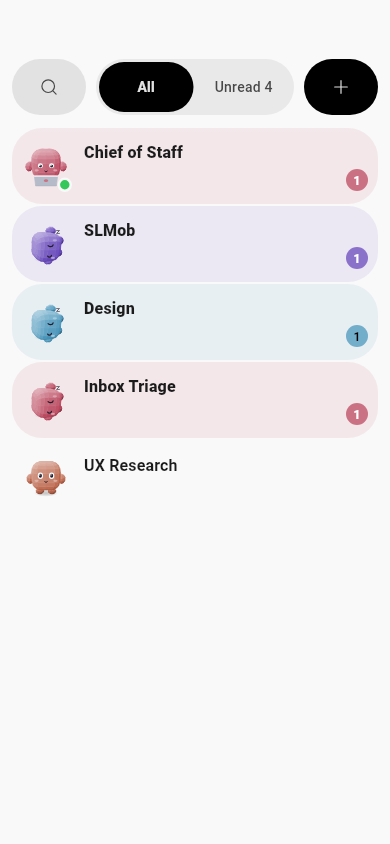
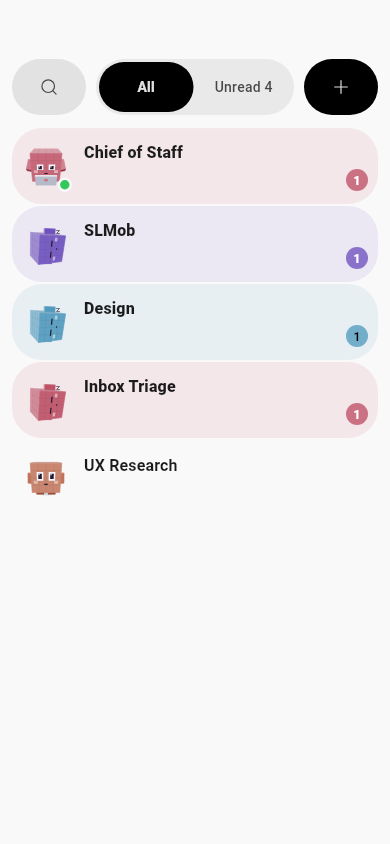
CHAT-84: square figure is the default again; Round is picked per agent
The owner keeps both figures. Every agent shows the square cube unless
its profile says round: the agent's profile page (right pane) has a new
row "Avatar: Square | Round", stored per agent like the agent colour
(AgentProfile.round, saved as 'round': true; old profiles stay square).
Reset to default also goes back to square. The avatar picks its painter
per agent and re-renders its cached image when the choice changes.

tool/agent_avatar_shot.dart sets two agents to round, so the headless
check shows both figures. Home-list preview goldens rendered again.

Changed region(s): [[0.0615, 0.2464, 0.1846, 0.5853], [0.0615, 0.154, 0.1846, 0.2156]]

diff --git a/lib/pages/agent_profile_edit_page.dart b/lib/pages/agent_profile_edit_page.dart
@@ -86,6 +86,10 @@ class _AgentProfileEditPageState extends State<AgentProfileEditPage> {
   /// The colour picked in this session; null means "keep what is stored".
   int? _color;
   AgentAvatarShape? _shape;
+
+  /// The avatar figure picked in this session (true round, false square);
+  /// null means "keep what is stored".
+  bool? _round;
   bool _clearColor = false;
   bool _busy = false;
 
@@ -170,6 +174,7 @@ class _AgentProfileEditPageState extends State<AgentProfileEditPage> {
       colorValue: _color,
       clearColor: _clearColor,
       shape: _shape,
+      round: _round,
     );
     if (!mounted) return;
     setState(() => _busy = false);
@@ -249,6 +254,8 @@ class _AgentProfileEditPageState extends State<AgentProfileEditPage> {
                         store: _store,
                         overrideColor: shownColor,
                         shape: _shape ?? _store.profileOf(agent.id).shape,
+                        round:
+                            _round ?? _store.profileOf(agent.id).round ?? false,
                       ),
                       const SizedBox(height: 14),
                       Row(
@@ -294,6 +301,40 @@ class _AgentProfileEditPageState extends State<AgentProfileEditPage> {
                       ),
                     ),
                     ExpressiveCard(
+                      key: const ValueKey('avatar_figure'),
+                      padding: const EdgeInsets.all(14),
+                      child: Row(
+                        children: <Widget>[
+                          Expanded(
+                            child: Text(
+                              'Avatar',
+                              style: Theme.of(context).textTheme.titleSmall,
+                            ),
+                          ),
+                          SegmentedButton<bool>(
+                            showSelectedIcon: false,
+                            segments: const <ButtonSegment<bool>>[
+                              ButtonSegment<bool>(
+                                value: false,
+                                label: Text('Square'),
+                              ),
+                              ButtonSegment<bool>(
+                                value: true,
+                                label: Text('Round'),
+                              ),
+                            ],
+                            selected: <bool>{
+                              _round ??
+                                  _store.profileOf(agent.id).round ??
+                                  false,
+                            },
+                            onSelectionChanged: (Set<bool> v) =>
+                                setState(() => _round = v.first),
+                          ),
+                        ],
+                      ),
+                    ),
+                    ExpressiveCard(
                       padding: const EdgeInsets.all(14),
                       child: _ShapeRow(
                         agentId: agent.id,
@@ -314,6 +355,7 @@ class _AgentProfileEditPageState extends State<AgentProfileEditPage> {
                         _color = null;
                         _clearColor = true;
                         _shape = AgentAvatarShape.expressive;
+                        _round = false;
                       }),
                     ),
                   ],
@@ -337,7 +379,7 @@ class _AgentProfileEditPageState extends State<AgentProfileEditPage> {
                 const SizedBox(height: 16),
                 const ExpressiveInfoCard(
                   text:
-                      'Picture, shape, colour, role and brief are kept on '
+                      'Picture, figure, colour, role and brief are kept on '
                       'this device. The relay carries names only.',
                 ),
               ],
@@ -356,12 +398,14 @@ class _FacePreview extends StatelessWidget {
     required this.store,
     required this.overrideColor,
     required this.shape,
+    required this.round,
   });
 
   final AgentsAgent agent;
   final AgentProfileStore store;
   final int? overrideColor;
   final AgentAvatarShape? shape;
+  final bool round;
 
   @override
   Widget build(BuildContext context) {
@@ -378,6 +422,7 @@ class _FacePreview extends StatelessWidget {
               colorValue: overrideColor,
               clearColor: overrideColor == null,
               shape: shape,
+              round: round,
             ),
       ),
     );

diff --git a/lib/ui/agent_avatar/agent_avatar.dart b/lib/ui/agent_avatar/agent_avatar.dart
@@ -43,8 +43,9 @@ import 'package:chuk_chat/utils/io_helper.dart' show Platform;
 export 'package:chuk_chat/ui/agent_avatar/avatar_rig.dart'
     show AgentAvatarState;
 
-/// The figure painter: the round figure ("D1 rund"). The square cube
-/// ([paintCubeAvatar]) is the other style; swap it here.
+/// A figure painter: the square cube ([paintCubeAvatar], the default) or
+/// the round figure ([paintRoundAvatar]), picked per agent in its profile
+/// ([AgentProfile.round]).
 typedef AgentAvatarPainter = void Function(
   Canvas canvas,
   double size,
@@ -53,7 +54,8 @@ typedef AgentAvatarPainter = void Function(
   bool dark,
 });
 
-const AgentAvatarPainter kAgentAvatarPainter = paintRoundAvatar;
+AgentAvatarPainter agentAvatarPainterFor({required bool round}) =>
+    round ? paintRoundAvatar : paintCubeAvatar;
 
 /// No activity for this long and the avatar sleeps.
 const Duration kAgentSleepAfter = Duration(hours: 6);
@@ -517,6 +519,7 @@ class _AgentAvatarState extends State<AgentAvatar>
               painter: _AvatarPainter(
                 frame: _frame,
                 accent: accent,
+                round: profile.round ?? false,
                 dpr: MediaQuery.devicePixelRatioOf(context),
               ),
             ),
@@ -578,6 +581,7 @@ class _Frame extends ChangeNotifier {
   double imageDpr = 0;
   double imageSize = 0;
   Color? imageAccent;
+  bool? imageRound;
 
   void tick() {
     version++;
@@ -603,11 +607,16 @@ class _Frame extends ChangeNotifier {
 /// which has no raster cache, does not re-raster an unchanged avatar every
 /// frame: it only draws the image again.
 class _AvatarPainter extends CustomPainter {
-  _AvatarPainter({required this.frame, required this.accent, required this.dpr})
-    : super(repaint: frame);
+  _AvatarPainter({
+    required this.frame,
+    required this.accent,
+    required this.round,
+    required this.dpr,
+  }) : super(repaint: frame);
 
   final _Frame frame;
   final Color accent;
+  final bool round;
   final double dpr;
 
   @override
@@ -620,11 +629,18 @@ class _AvatarPainter extends CustomPainter {
         frame.imageVersion != frame.version ||
         frame.imageDpr != dpr ||
         frame.imageSize != s ||
-        frame.imageAccent != accent) {
+        frame.imageAccent != accent ||
+        frame.imageRound != round) {
       final ui.PictureRecorder rec = ui.PictureRecorder();
       final Canvas c = Canvas(rec);
       c.scale(dpr);
-      kAgentAvatarPainter(c, s, accent, frame.pose, dark: frame.dark);
+      agentAvatarPainterFor(round: round)(
+        c,
+        s,
+        accent,
+        frame.pose,
+        dark: frame.dark,
+      );
       final ui.Picture picture = rec.endRecording();
       final ui.Image next = picture.toImageSync(px, px);
       picture.dispose();
@@ -635,6 +651,7 @@ class _AvatarPainter extends CustomPainter {
       frame.imageDpr = dpr;
       frame.imageSize = s;
       frame.imageAccent = accent;
+      frame.imageRound = round;
     }
     canvas.drawImageRect(
       image,
@@ -648,5 +665,8 @@ class _AvatarPainter extends CustomPainter {
 
   @override
   bool shouldRepaint(_AvatarPainter old) =>
-      old.accent != accent || old.frame != frame || old.dpr != dpr;
+      old.accent != accent ||
+      old.round != round ||
+      old.frame != frame ||
+      old.dpr != dpr;
 }

diff --git a/lib/services/agents/agent_profile_store.dart b/lib/services/agents/agent_profile_store.dart
@@ -61,7 +61,12 @@ class AgentProfile {
     this.role,
     this.brief,
     this.shape,
+    this.round,
   });
+
+  /// The avatar figure: true is the round figure, null or false the square
+  /// cube (the default).
+  final bool? round;
 
   /// Null keeps the original stable expressive silhouette.
   final AgentAvatarShape? shape;
@@ -113,7 +118,8 @@ class AgentProfile {
       colorValue == null &&
       role == null &&
       brief == null &&
-      shape == null;
+      shape == null &&
+      round == null;
 
   /// Merges the given fields. A `clear*` flag wins over a value, so an emptied
   /// text field really removes what was stored instead of merging the old value
@@ -124,12 +130,14 @@ class AgentProfile {
     String? role,
     String? brief,
     AgentAvatarShape? shape,
+    bool? round,
     bool clearPhoto = false,
     bool clearColor = false,
     bool clearRole = false,
     bool clearBrief = false,
     bool clearShape = false,
   }) => AgentProfile(
+    round: round == null ? this.round : (round ? true : null),
     photoPath: clearPhoto ? null : (photoPath ?? this.photoPath),
     colorValue: clearColor ? null : (colorValue ?? this.colorValue),
     role: clearRole ? null : (role ?? this.role),
@@ -143,6 +151,7 @@ class AgentProfile {
     if (role != null) 'role': role,
     if (brief != null) 'brief': brief,
     if (shape != null) 'shape': shape!.name,
+    if (round == true) 'round': true,
   };
 
   static AgentProfile fromJson(Map<String, dynamic> json) => AgentProfile(
@@ -153,6 +162,7 @@ class AgentProfile {
     role: json['role'] as String?,
     brief: json['brief'] as String?,
     shape: _readShape(json['shape']),
+    round: json['round'] == true ? true : null,
   );
 
   static AgentAvatarShape? _readShape(Object? value) {
@@ -214,6 +224,7 @@ class AgentProfileStore extends ChangeNotifier {
     String? role,
     String? brief,
     AgentAvatarShape? shape,
+    bool? round,
     bool clearPhoto = false,
     bool clearColor = false,
     bool clearRole = false,
@@ -221,6 +232,7 @@ class AgentProfileStore extends ChangeNotifier {
     bool clearShape = false,
   }) async {
     final AgentProfile next = profileOf(agentId).copyWith(
+      round: round,
       photoPath: photoPath,
       colorValue: colorValue,
       role: role,

diff --git a/test/pages/agent_profile_edit_page_test.dart b/test/pages/agent_profile_edit_page_test.dart
@@ -76,6 +76,50 @@ void main() {
     },
   );
 
+  testWidgets('the avatar figure is square by default and Round sticks', (
+    tester,
+  ) async {
+    SharedPreferences.setMockInitialValues({});
+    final store = AgentProfileStore();
+    final source = LocalAgentRosterSource(
+      seed: [const AgentsAgent(id: 'alex', name: 'Alex', threads: [])],
+    );
+    addTearDown(store.dispose);
+    addTearDown(source.dispose);
+    await tester.pumpWidget(
+      testApp(
+        AgentProfileEditPage(
+          agent: source.agents.single,
+          source: source,
+          profiles: store,
+        ),
+      ),
+    );
+    await tester.pumpAndSettle();
+    expect(store.profileOf('alex').round, isNull);
+    final Finder round = find.descendant(
+      of: find.byKey(const ValueKey('avatar_figure')),
+      matching: find.text('Round'),
+    );
+    await Scrollable.ensureVisible(tester.element(round), alignment: 0.5);
+    await tester.pumpAndSettle();
+    await tester.tap(round);
+    await tester.pumpAndSettle();
+    // The preview shows it before Save; the store only after.
+    expect(
+      tester.widget<AgentFace>(find.byType(AgentFace)).profileOverride!.round,
+      isTrue,
+    );
+    expect(store.profileOf('alex').round, isNull);
+    await tester.tap(find.widgetWithText(TextButton, 'Save'));
+    await tester.pumpAndSettle();
+    expect(store.profileOf('alex').round, isTrue);
+    final restored = AgentProfileStore();
+    addTearDown(restored.dispose);
+    await restored.load();
+    expect(restored.profileOf('alex').round, isTrue);
+  });
+
   // The page runs under chuk's floating header. The header band grows by the
   // status bar, so the preview must clear the band at every status-bar
   // height, not only at the zero a test gets by default.

diff --git a/tool/agent_avatar_shot.dart b/tool/agent_avatar_shot.dart
@@ -12,6 +12,7 @@ import 'package:flutter/material.dart';
 import 'package:flutter/rendering.dart';
 
 import 'package:chuk_chat/models/agents_agent.dart';
+import 'package:chuk_chat/services/agents/agent_profile_store.dart';
 import 'package:chuk_chat/ui/agent_avatar/agent_avatar.dart';
 
 final GlobalKey _shot = GlobalKey();
@@ -24,8 +25,14 @@ const List<String> _ids = <String>[
   'watcher',
 ];
 
-void main() {
+Future<void> main() async {
   WidgetsFlutterBinding.ensureInitialized();
+  // Two agents pick the round figure in their profile; the rest keep the
+  // square default.
+  await AgentProfileStore.instance.load();
+  for (final String id in <String>['research', 'watcher']) {
+    await AgentProfileStore.instance.update(id, round: true);
+  }
   runApp(const _Sheet());
   Timer(const Duration(seconds: 2), () async {
     final String dir =

diff --git a/test/ui/agent_avatar/agent_avatar_test.dart b/test/ui/agent_avatar/agent_avatar_test.dart
@@ -115,6 +115,17 @@ void main() {
     }
   });
 
+  test('square is the default figure; round is picked per agent', () {
+    expect(agentAvatarPainterFor(round: false), paintCubeAvatar);
+    expect(agentAvatarPainterFor(round: true), paintRoundAvatar);
+    const AgentProfile plain = AgentProfile();
+    expect(plain.round, isNull);
+    final AgentProfile picked = plain.copyWith(round: true);
+    expect(AgentProfile.fromJson(picked.toJson()).round, isTrue);
+    expect(picked.copyWith(round: false).round, isNull);
+    expect(picked.copyWith(round: false).isEmpty, isTrue);
+  });
+
   test('eye offsets clamp to the unit circle', () {
     expect(clampLook(const Offset(3, 4)).distance, closeTo(1, 1e-9));
     expect(clampLook(const Offset(0.3, 0.1)), const Offset(0.3, 0.1));
